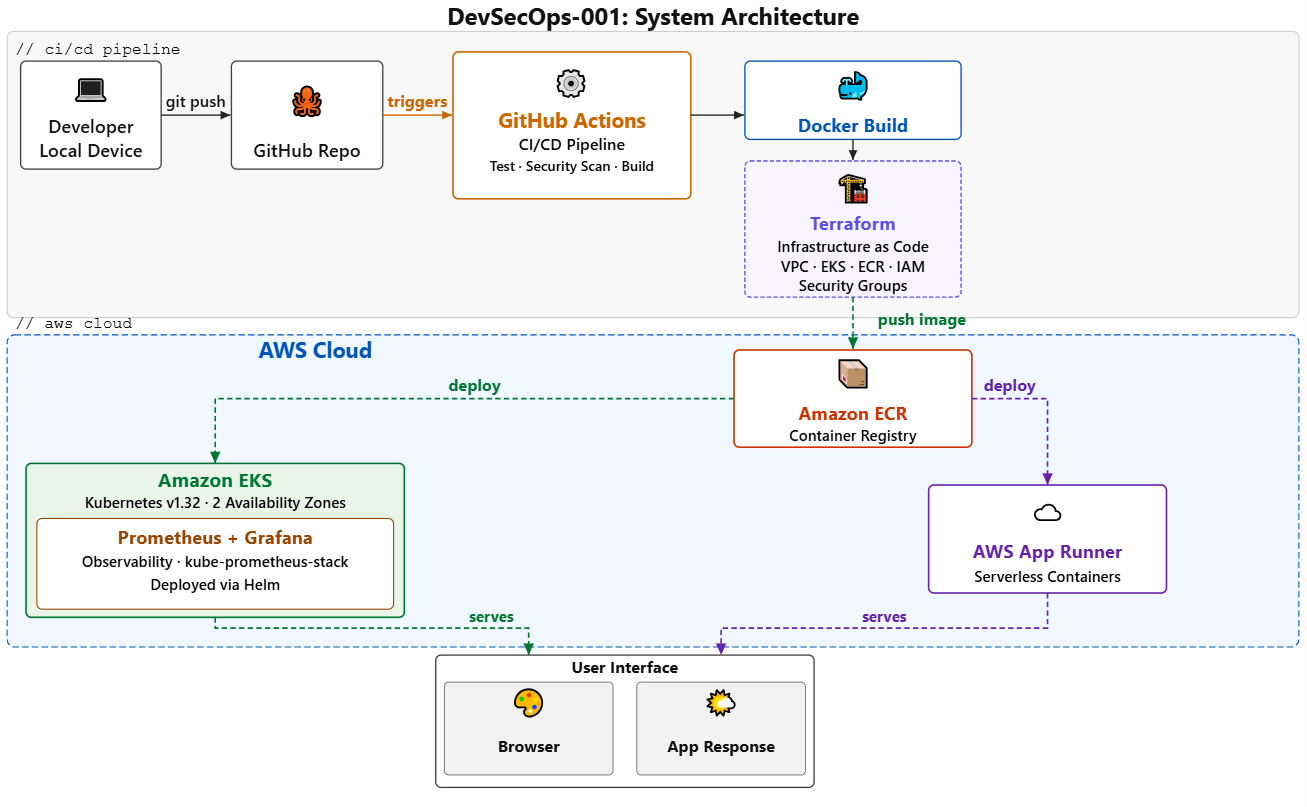
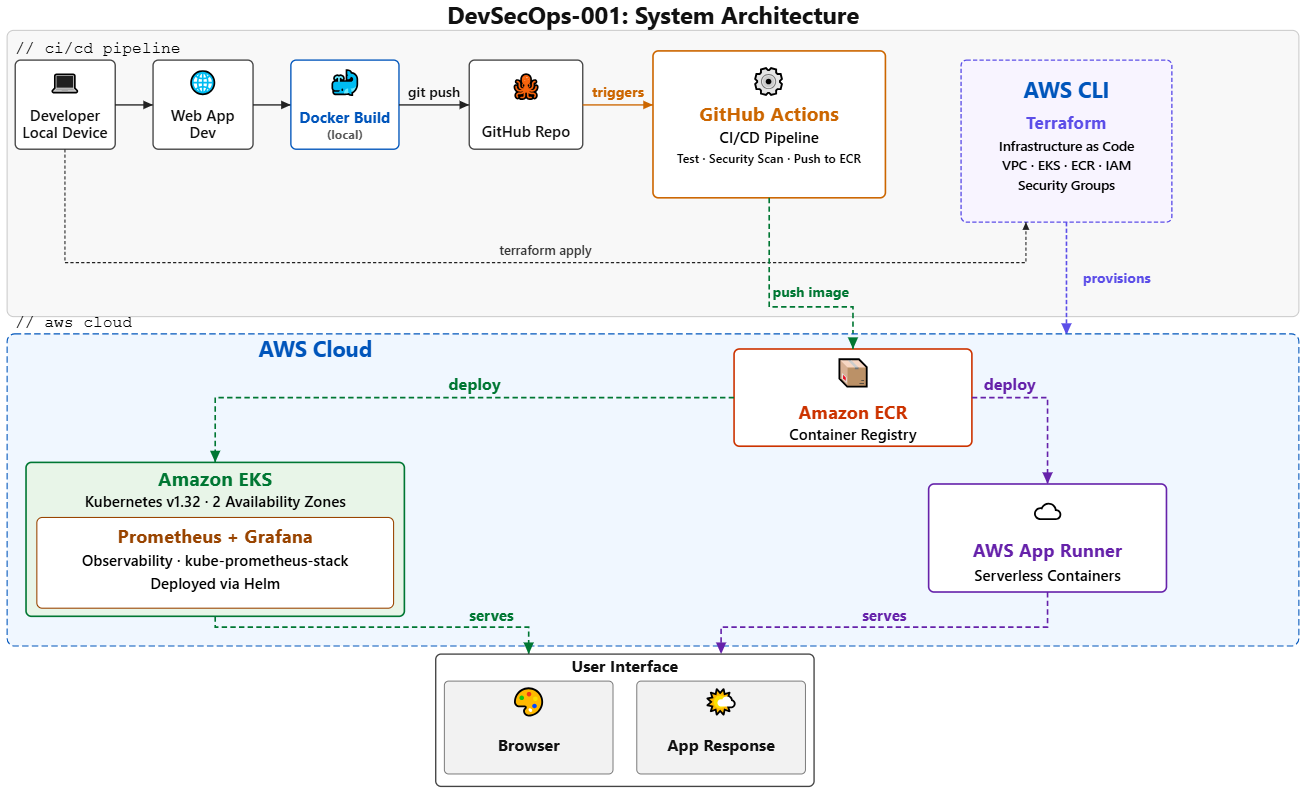
fix: README updates plus replace erroneous screenshots

diff --git a/README.md b/README.md
@@ -34,12 +34,12 @@ Any application can be dropped into this pipeline in place of the weather app - 
 
 ---
 
-## 🧩 Problem Statement
+## 🧩 Problem Statement:
 
 ![Project Architecture](screenshots/01-secure-devsecops-release-platform-architecture.png)
 <br>
 
-#### Milestone Plan
+#### Milestone Plan:
 
 1. Application Setup - Build a simple Flask web application with a home endpoint and a health check endpoint. The result is a working app that can run locally.
 
@@ -69,15 +69,15 @@ In this project, the above architecture has been implemented exactly as shown, n
 
 ```text
 
-Developer → Docker Build (local) → git push → GitHub → GitHub Actions (CI/CD)
-                                                               ↓
-                                                         Amazon ECR
-                                                        ↙           ↘
-                                                 Amazon EKS     AWS App Runner
-                                               (Kubernetes)      (Serverless)
-                                                     ↓
-                                          Prometheus + Grafana
-                                            (Observability)
+Developer → Web App Dev → Docker Build (local) → git push → GitHub → GitHub Actions (CI/CD)
+                                                                              ↓
+                                                                        Amazon ECR
+                                                                       ↙           ↘
+                                                                Amazon EKS     AWS App Runner
+                                                              (Kubernetes)      (Serverless)
+                                                                    ↓
+                                                         Prometheus + Grafana
+                                                           (Observability)
 
 ```
 
@@ -103,7 +103,7 @@ Developer → Docker Build (local) → git push → GitHub → GitHub Actions (C
 ## ✨ Features
 
 - 🔍 Search weather for any city in the world
-- 🌡️  Real-time temperature, humidity, wind speed, and UV index
+-  🌡️ Real-time temperature, humidity, wind speed, and UV index
 - 📅 4-day weather forecast
 - 🎨 Dynamic background that changes with weather conditions
 - 📦 Fully containerised with Docker
@@ -161,7 +161,7 @@ devsecops-001/
 
 ## Before AWS Cloud Deployment
 
-**Description                                        Status**
+**Description**                                    **Status**
 1. Application build                                   ✅
 2. Testing (pytest)                                    ✅
 3. Containerisation (Docker)                           ✅
@@ -221,7 +221,7 @@ terraform/                      # Not committed
 - Setting up a full observability stack with Prometheus and Grafana
 - Building automated CI/CD pipelines with GitHub Actions
 - Troubleshooting EKS authentication with IAM access entries
-* Before _terraform destroy_, make double (or triple) sure all Kubernetes-created AWS resources are well and truly cleaned up, to avoid the VPC stuck-on-deletion for ages.
+- Before _terraform destroy_, make double (or triple) sure all Kubernetes-created AWS resources are well and truly cleaned up, to avoid the VPC stuck-on-deletion for ages
 
 -----
 
@@ -246,13 +246,13 @@ Security was considered at every layer of this project - from how credentials ar
 - `.gitignore` prevents sensitive files such as `terraform.tfstate` and `.env` from being committed
 
 **IAM & Access Control**
-- The project uses a dedicated IAM user rather than the root AWS account
+- The project uses a dedicated IAM user rather than the root AWS account.
 - EKS cluster access is managed via **EKS Access Entries** - the modern and recommended approach over the legacy `aws-auth` ConfigMap
 - The App Runner service uses a dedicated IAM role (`AppRunnerECRAccessRole`) scoped only to ECR read access - it cannot access anything else in AWS
 - EKS worker node IAM roles follow least privilege - nodes can pull from ECR but have no unnecessary permissions
 
 **Identity and Access Credentials Exposure**
-- The basic error of accidental exposure of identity and access credentials such as account IDs, usernames, etc can easily occur in portfolio projects such as this one due to extensive use of screenshots. Attention has been duly paid (e.g. to constituent parts of AWS ARNs) and all such potential exposure redacted from screenshots.
+- The basic error of accidental exposure of identity and access credentials such as account IDs, usernames, etc can easily occur in portfolio projects such as this one due to extensive use of screenshots. Attention has been duly paid (e.g. to constituent parts of AWS ARNs) and all such potential exposure redacted from screenshots
 
 **Container & Registry Security**
 - Container images are stored in a **private** Amazon ECR repository - not on a public registry like Docker Hub
@@ -276,7 +276,7 @@ Security was considered at every layer of this project - from how credentials ar
 
 ### ⚠️ Known Vulnerabilities & Weaknesses
 
-These are real security gaps in the current setup. They are documented here honestly because understanding weaknesses is as important as documenting strengths.
+These are real security gaps in the current setup. They are documented here honestly because understanding weaknesses is as important as documenting strengths
 
 **Grafana Exposed Over HTTP**
 - The Grafana LoadBalancer URL runs over plain HTTP, not HTTPS - visible as "Not secure" in the browser
@@ -336,12 +336,13 @@ These are real security gaps in the current setup. They are documented here hone
 - **SAST/DAST scanning** - Static and dynamic security scanning in the GitHub Actions pipeline
 - **Kubernetes Network Policies** - Explicit allow-list for all inter-service communication
 - **Audit logging** - AWS CloudTrail + EKS audit logs shipped to CloudWatch or a SIEM
+- **Improve Pytest Coverage** - Take active measures to improve coverage to >= 90%
 
 -----
 
 ## Achieving Major Milestones
 
-### 1. Create app and run Locally without Docker
+### 1. Create app and run locally without Docker
 On localhost 127.0.0.1 , port 5000 (Flask)<br>
 <br>
 
@@ -353,6 +354,14 @@ On localhost 127.0.0.1 , port 5000 (Flask)<br>
 <br>
 
 ![Pytest checks](screenshots/04-pytest-output-report.png)<br>
+
+The 77% coverage score is normal and in this context a solid baseline from which to make improvements in subsequent code reviews .While it falls just short of the traditional 80% industry benchmark, it indicates that the vast majority of the codebase is being executed during the test suite.<br>
+Context matters - 77% coverage on a critical financial transaction module or platform is risky and might be considered unacceptable. However, 77% on a web application where the remaining 23% consists of untestable local setup files and basic error handling is fair initial trials.<br>
+Measures to improve coverage would include:<br>
+- Identify missing gaps by generating an interactive HTML coverage report to see exactly which specific lines of code are not being executed
+- Create functions to test edge cases and error paths
+- Use `# pragma: no cover` sparingly for genuinely untestable lines (e.g. if __name__ == "__main__":) to exclude them explicitly, rather than letting them drag the coverage number down
+- For a production environment, set a coverage minimum gate in ci.yml, e.g. `python -m pytest --cov=<app or project or software name> --cov-fail-under=85`<br>
 <br>
 
 ### 3. Docker - Build the Image and Run the Container 
@@ -377,7 +386,6 @@ Automated security tests:<br>
 
 Testing the Gate:<br>
 Deliberately break a test to confirm the gate works:<br>
-<br>
 
 ```text
 
@@ -393,7 +401,7 @@ Pipeline gate blocks on test failure, and is restored when script is corrected:<
 ![Pipeline failure and restoration](screenshots/08-testing-gate-after-github-actions-setup-01d.png)<br>
 <br>
 
-### 5. Amazon ECR - Elastic Container Registry stores your Docker images in AWS so they can be pulled by EKS and App Runner.<br>
+### 5. Amazon ECR - Elastic Container Registry stores Docker images in AWS so they can be pulled by EKS and App Runner.<br>
 Every push to the `main` branch automatically triggers a pipeline that builds and pushes a fresh Docker image to ECR:<br>
 <br>
 
@@ -433,7 +441,7 @@ Weather app served via App Runner:<br>
 ![App via App Runner](screenshots/14-apprunner-deployed-2.png)<br>
 <br>
 
-### 9. Monitoring - Prometheus + Grafana - deployed directly onto the EKS cluster using Helm.
+### 9. Monitoring - Prometheus & Grafana - deployed directly onto the EKS cluster using Helm.
 Prometheus deployed:<br>
 <br>
 